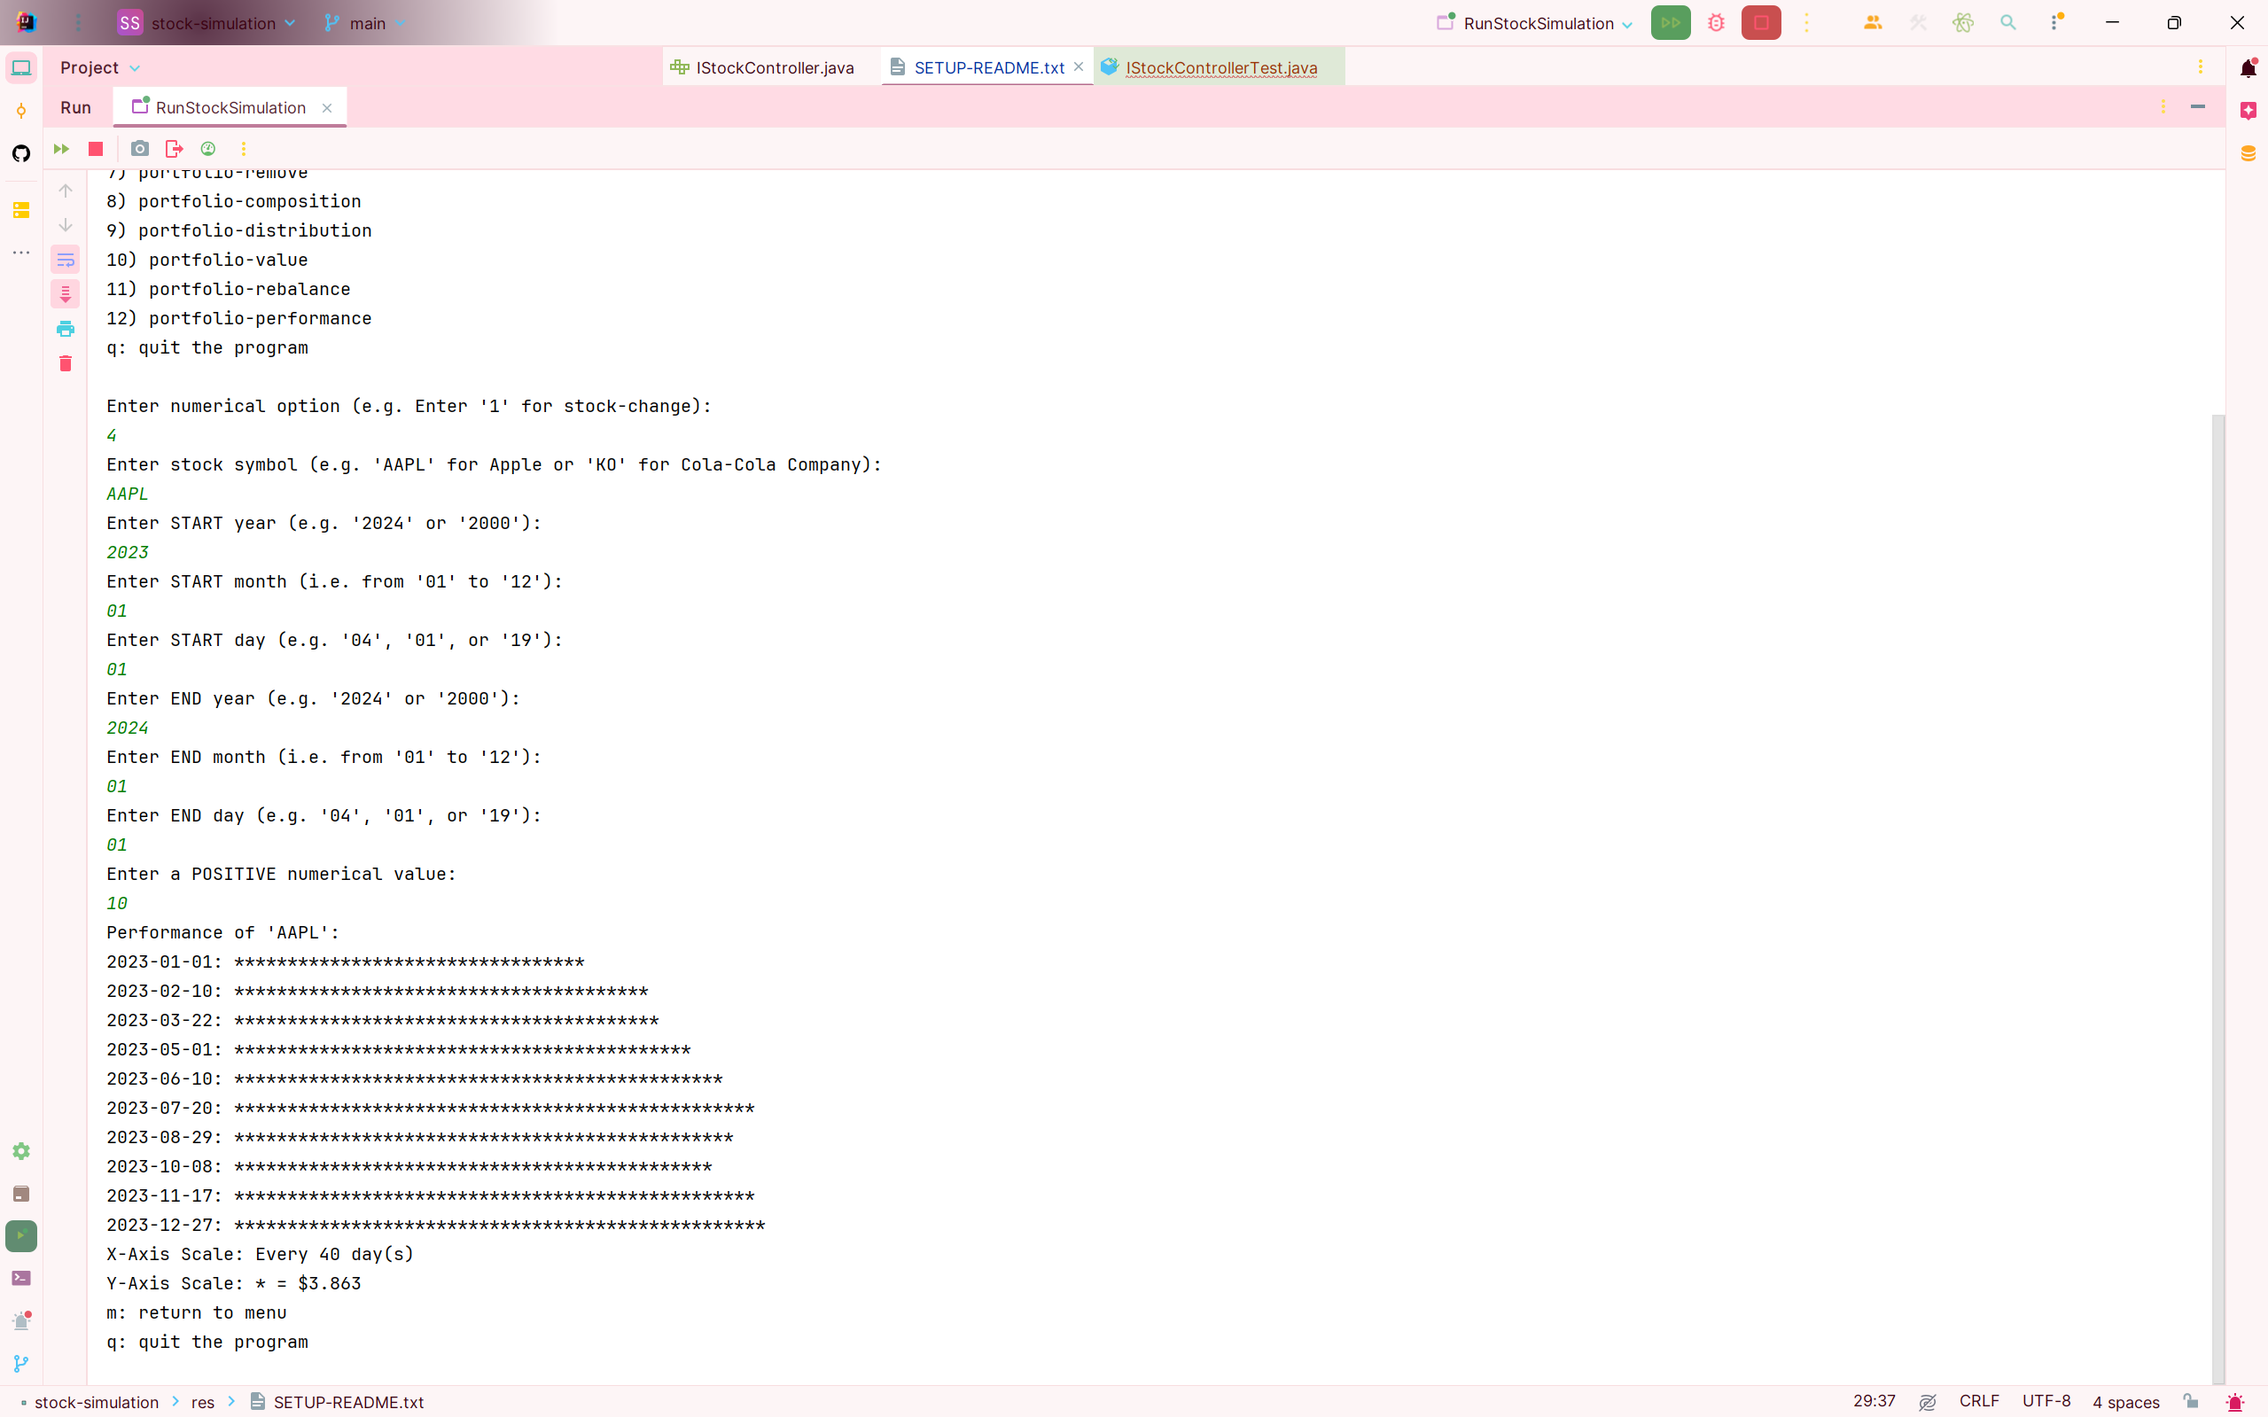
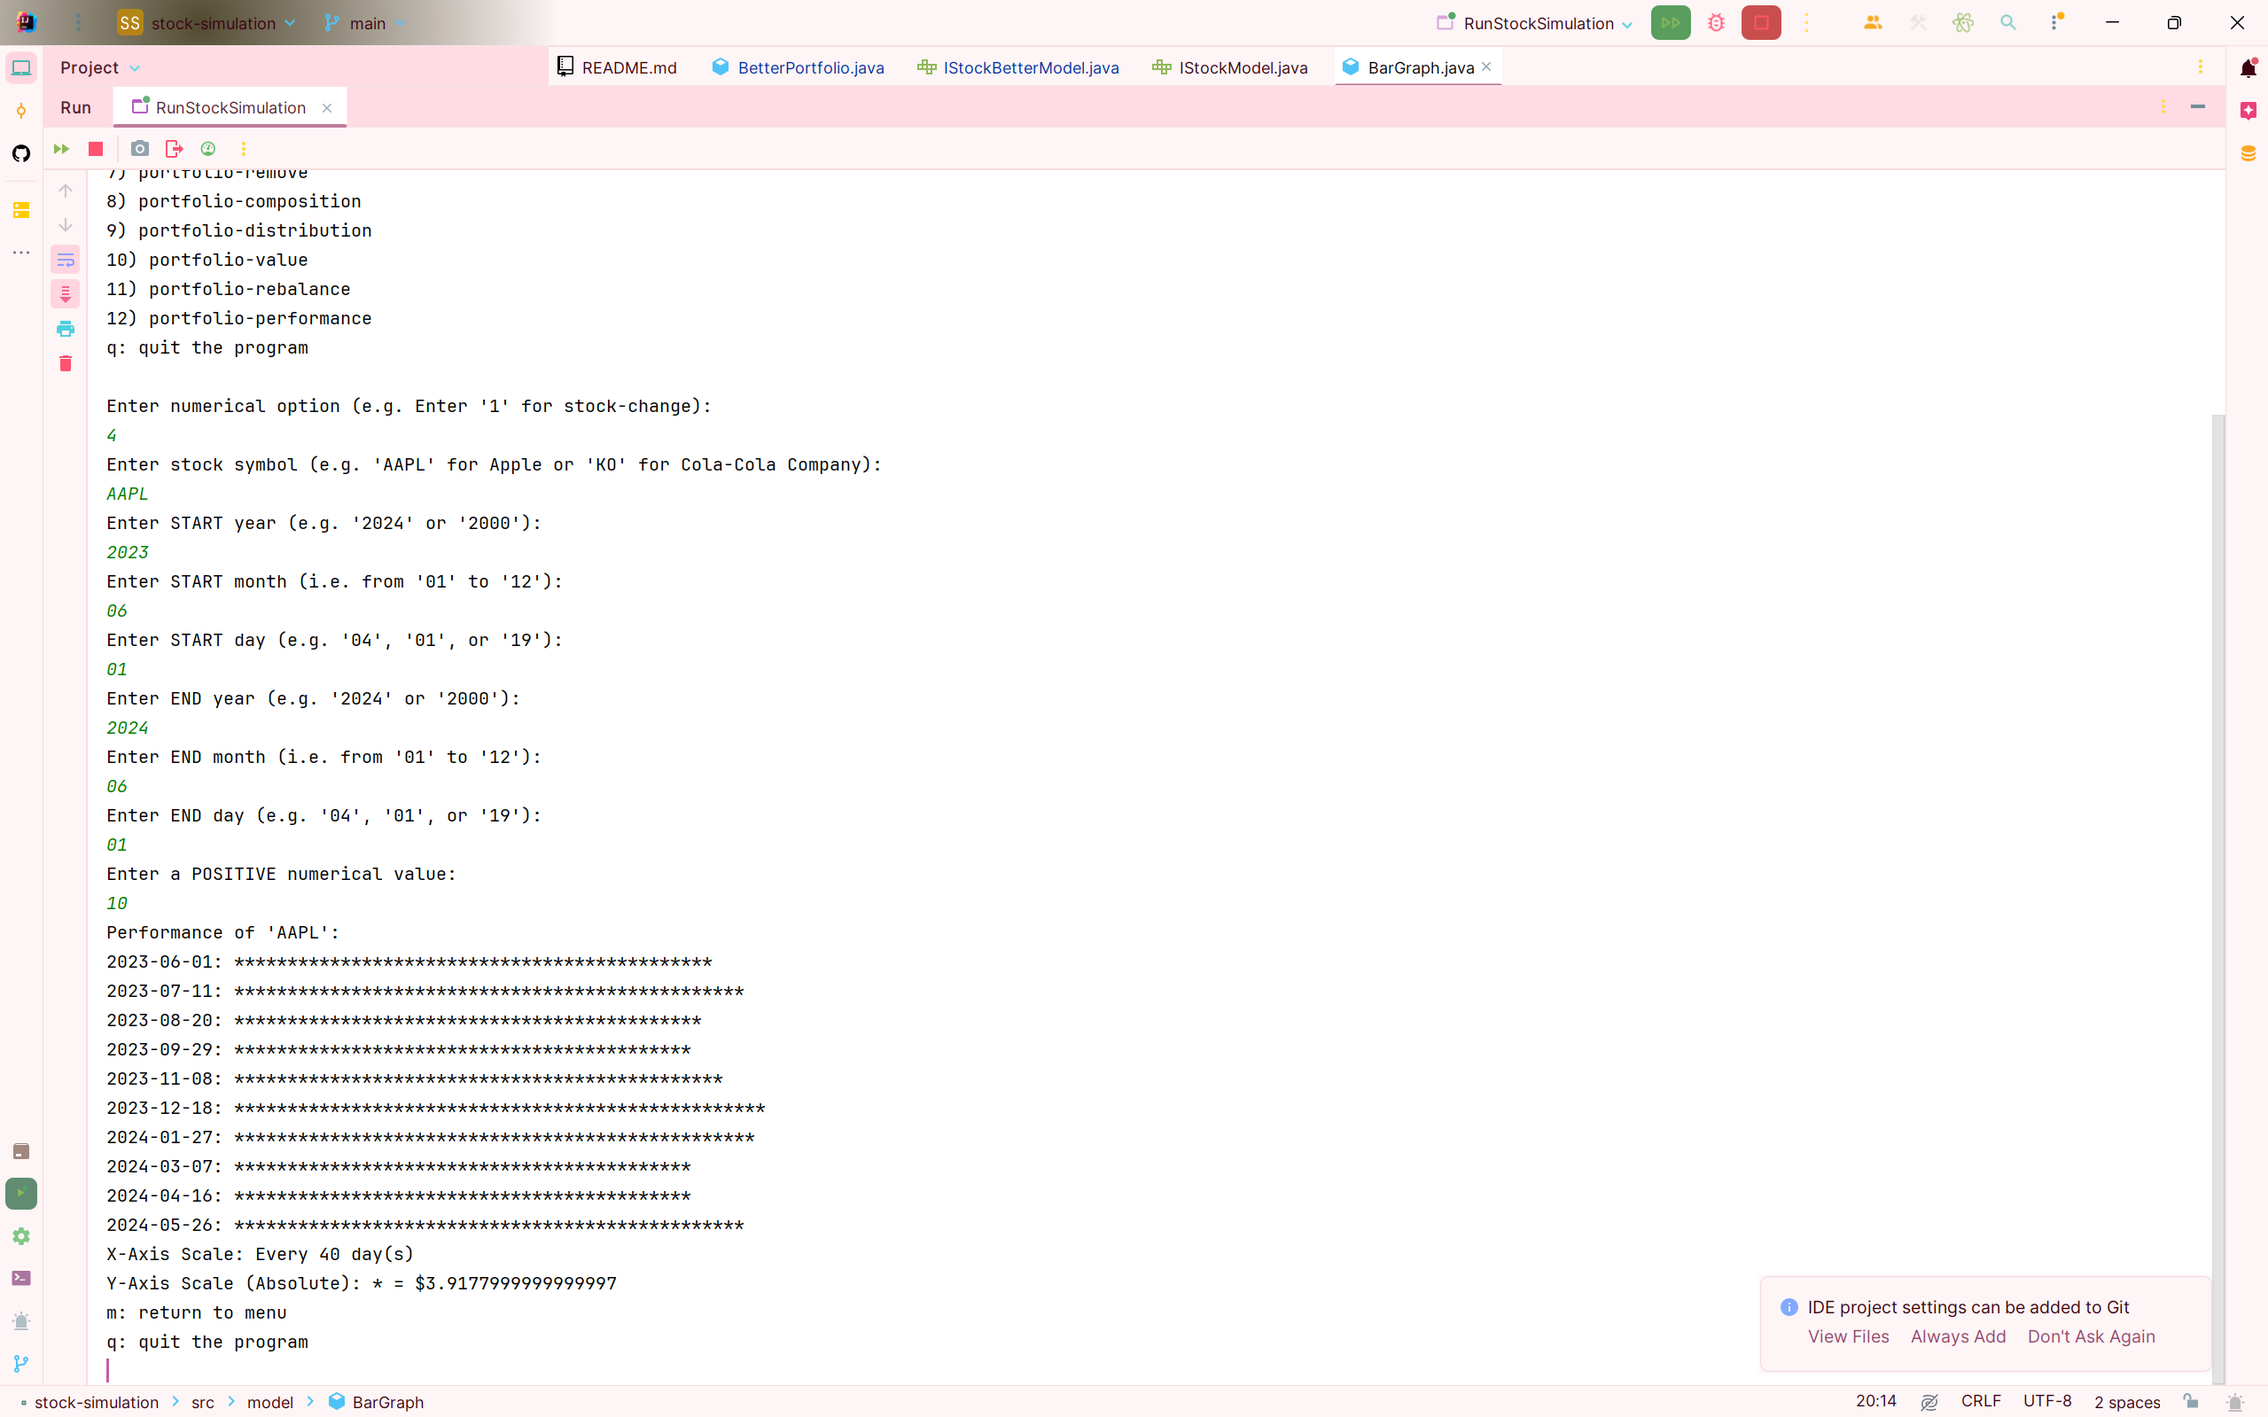
modified BarGraph and bar-graph.png.

diff --git a/test/IStockModelTest.java b/test/IStockModelTest.java
@@ -99,7 +99,7 @@ public class IStockModelTest {
   public void testAddStockToBetterPortfolio() {
     clear("portfolios");
     betterModel.createPortfolio("TechStocks");
-    betterModel.addStockToPortfolio("TechStocks", "AAPL", 10,
+    betterModel.addStockToPortfolioFile("TechStocks", "AAPL", 10,
             LocalDate.of(2023, 6, 1));
     double portfolioValue = betterModel.portfolioValue("TechStocks",
             LocalDate.of(2023, 6, 2));
@@ -114,9 +114,9 @@ public class IStockModelTest {
             LocalDate.of(2023, 6, 1));
     assertEquals(1800.9, portfolioValue, 0.001);
     // add multiple stocks so different stocks are in portfolio on different dates
-    betterModel.addStockToPortfolio("TechStocks", "GOOG", 15,
+    betterModel.addStockToPortfolioFile("TechStocks", "GOOG", 15,
             LocalDate.of(2022, 6, 1));
-    betterModel.addStockToPortfolio("TechStocks", "GOOG", 15,
+    betterModel.addStockToPortfolioFile("TechStocks", "GOOG", 15,
             LocalDate.of(2021, 2, 1));
     portfolioValue = betterModel.portfolioValue("TechStocks",
             LocalDate.of(2022, 6, 1));
@@ -136,14 +136,14 @@ public class IStockModelTest {
   public void testRemoveStockFromBetterPortfolio() {
     clear("portfolios");
     betterModel.createPortfolio("TechStocks");
-    betterModel.addStockToPortfolio("TechStocks", "AAPL", 10,
+    betterModel.addStockToPortfolioFile("TechStocks", "AAPL", 10,
             LocalDate.of(2023, 6, 1));
-    betterModel.removeStockFromPortfolio("TechStocks", "AAPL", 5,
+    betterModel.removeStockFromPortfolioFile("TechStocks", "AAPL", 5,
             LocalDate.of(2023, 7, 2));
     double portfolioValue = betterModel.portfolioValue("TechStocks",
             LocalDate.of(2023, 6, 1));
     assertEquals(900.45, portfolioValue, 0.001);
-    betterModel.removeStockFromPortfolio("TechStocks", "AAPL", 5,
+    betterModel.removeStockFromPortfolioFile("TechStocks", "AAPL", 5,
             LocalDate.of(2023, 6, 3));
     portfolioValue = betterModel.portfolioValue("TechStocks",
             LocalDate.of(2023, 6, 3));
@@ -345,9 +345,9 @@ public class IStockModelTest {
   public void testPortfolioValue() {
     clear("portfolios");
     betterModel.createPortfolio("TechStocks");
-    betterModel.addStockToPortfolio("TechStocks", "AAPL", 10,
+    betterModel.addStockToPortfolioFile("TechStocks", "AAPL", 10,
             LocalDate.of(2023, 6, 1));
-    betterModel.addStockToPortfolio("TechStocks", "GOOG", 5,
+    betterModel.addStockToPortfolioFile("TechStocks", "GOOG", 5,
             LocalDate.of(2023, 6, 1));
     double portfolioValue = betterModel.portfolioValue("TechStocks",
             LocalDate.of(2023, 6, 1));
@@ -396,7 +396,7 @@ public class IStockModelTest {
   public void testAddPortfolioInvalidDate() {
     clear("portfolios");
     betterModel.createPortfolio("TechStocks");
-    betterModel.addStockToPortfolio("TechStocks", "AAPL", 10,
+    betterModel.addStockToPortfolioFile("TechStocks", "AAPL", 10,
             LocalDate.of(2023, 32, 1));
   }
 
@@ -407,7 +407,7 @@ public class IStockModelTest {
   public void testRemovePortfolioInvalidDate() {
     clear("portfolios");
     betterModel.createPortfolio("TechStocks");
-    betterModel.removeStockFromPortfolio("TechStocks", "AAPL", 10,
+    betterModel.removeStockFromPortfolioFile("TechStocks", "AAPL", 10,
             LocalDate.of(2023, 32, 1));
   }
 
@@ -419,13 +419,13 @@ public class IStockModelTest {
   public void testRemovePortfolioRemoveTooMuch() {
     clear("portfolios");
     betterModel.createPortfolio("TechStocks");
-    betterModel.addStockToPortfolio("TechStocks", "AAPL", 10,
+    betterModel.addStockToPortfolioFile("TechStocks", "AAPL", 10,
             LocalDate.of(2023, 11, 1));
-    betterModel.addStockToPortfolio("TechStocks", "GOOG", 1,
+    betterModel.addStockToPortfolioFile("TechStocks", "GOOG", 1,
             LocalDate.of(2023, 11, 1));
     assertEquals(2045.72, betterModel.portfolioValue("TechStocks",
             LocalDate.of(2023, 12, 1)), 0.01);
-    betterModel.removeStockFromPortfolio("TechStocks", "AAPL", 1000,
+    betterModel.removeStockFromPortfolioFile("TechStocks", "AAPL", 1000,
             LocalDate.of(2023, 12, 1));
     assertEquals(133.32, betterModel.portfolioValue("TechStocks",
             LocalDate.of(2023, 12, 2)), 0.01);
@@ -438,7 +438,7 @@ public class IStockModelTest {
   public void testAddPortfolioInvalidTicker() {
     clear("portfolios");
     betterModel.createPortfolio("TechStocks");
-    betterModel.addStockToPortfolio("TechStocks", "AKPL", 10,
+    betterModel.addStockToPortfolioFile("TechStocks", "AKPL", 10,
             LocalDate.of(2023, 32, 1));
   }
 
@@ -449,7 +449,7 @@ public class IStockModelTest {
   public void testPortfolioComposition() {
     clear("portfolios");
     betterModel.createPortfolio("TechStocks");
-    betterModel.addStockToPortfolio("TechStocks", "AAPL", 10,
+    betterModel.addStockToPortfolioFile("TechStocks", "AAPL", 10,
             LocalDate.of(2023, 6, 1));
     BarGraph composition = betterModel.portfolioComposition("TechStocks",
             LocalDate.of(2023, 6, 1));
@@ -468,7 +468,7 @@ public class IStockModelTest {
   @Test
   public void testPortfolioDistribution() {
     betterModel.createPortfolio("TechStocks");
-    betterModel.addStockToPortfolio("TechStocks", "AAPL", 10,
+    betterModel.addStockToPortfolioFile("TechStocks", "AAPL", 10,
             LocalDate.of(2023, 6, 1));
     BarGraph distribution =
         betterModel.portfolioDistribution("TechStocks",
@@ -483,7 +483,7 @@ public class IStockModelTest {
   @Test
   public void testPortfolioPerformance() {
     betterModel.createPortfolio("TechStocks");
-    betterModel.addStockToPortfolio("TechStocks", "AAPL", 10,
+    betterModel.addStockToPortfolioFile("TechStocks", "AAPL", 10,
             LocalDate.of(2023, 6, 1));
     BarGraph performance =
         betterModel.portfolioPerformance(
@@ -500,7 +500,7 @@ public class IStockModelTest {
   @Test
   public void testPortfolioRebalance() {
     betterModel.createPortfolio("TechStocks");
-    betterModel.addStockToPortfolio("TechStocks", "AAPL", 10,
+    betterModel.addStockToPortfolioFile("TechStocks", "AAPL", 10,
             LocalDate.of(2023, 6, 1));
     betterModel.portfolioRebalance("TechStocks", List.of(50, 50),
             LocalDate.of(2023, 6, 1));
@@ -517,11 +517,11 @@ public class IStockModelTest {
   @Test
   public void testIsValidSplit() {
     betterModel.createPortfolio("TechStocks");
-    betterModel.addStockToPortfolio("TechStocks", "AAPL",
+    betterModel.addStockToPortfolioFile("TechStocks", "AAPL",
             10, LocalDate.of(2023, 6, 1));
     boolean isValid = betterModel.isValidSplit("TechStocks", List.of("AAPL", "GOOG"));
     assertFalse(isValid);
-    betterModel.addStockToPortfolio("TechStocks", "GOOG", 10,
+    betterModel.addStockToPortfolioFile("TechStocks", "GOOG", 10,
             LocalDate.of(2023, 6, 1));
     isValid = betterModel.isValidSplit("TechStocks", List.of("AAPL"));
     assertFalse(isValid);

diff --git a/test/IStockControllerTest.java b/test/IStockControllerTest.java
@@ -100,7 +100,7 @@ public class IStockControllerTest {
 
     betterController.control();
     // Verify the stock was added to the portfolio.
-    betterMockModel.addStockToPortfolio("TechStocks", "AAPL", 10,
+    betterMockModel.addStockToPortfolioFile("TechStocks", "AAPL", 10,
             LocalDate.of(2023, 6, 1));
     assertTrue(betterMockView.getMessages().contains("On 2023-06-01: Added 'AAPL' " +
             "(quantity: 10) to portfolio 'TechStocks'."));
@@ -118,10 +118,10 @@ public class IStockControllerTest {
     betterController.control();
 
     // Verify the stock was added to the portfolio
-    betterMockModel.addStockToPortfolio("TechStocks", "AAPL", 10,
+    betterMockModel.addStockToPortfolioFile("TechStocks", "AAPL", 10,
             LocalDate.of(2023, 6, 1));
     // Verify the stock was removed from the portfolio
-    betterMockModel.removeStockFromPortfolio("TechStocks", "AAPL", 5,
+    betterMockModel.removeStockFromPortfolioFile("TechStocks", "AAPL", 5,
             LocalDate.of(2023, 6, 1));
     assertTrue(betterMockView.getMessages().contains("On 2023-06-01: Removed 'AAPL' " +
             "(quantity: 5) from portfolio 'TechStocks'."));
@@ -139,9 +139,9 @@ public class IStockControllerTest {
     betterController.control();
 
     // Verify the stock was added to the portfolio
-    betterMockModel.addStockToPortfolio("TechStocks", "AAPL", 10,
+    betterMockModel.addStockToPortfolioFile("TechStocks", "AAPL", 10,
             LocalDate.of(2023, 6, 1));
-    betterMockModel.removeStockFromPortfolio("TechStocks", "SWK", 5,
+    betterMockModel.removeStockFromPortfolioFile("TechStocks", "SWK", 5,
             LocalDate.of(2023, 6, 1));
     assertTrue(betterMockView.getMessages().contains("On 2023-06-01: Removed 'SWK' " +
             "(quantity: 5) from portfolio 'TechStocks'."));
@@ -424,7 +424,7 @@ public class IStockControllerTest {
     betterController.control();
 
     // Verify the stock was added to the portfolio
-    betterMockModel.addStockToPortfolio("TechStocks", "AAPL", 10,
+    betterMockModel.addStockToPortfolioFile("TechStocks", "AAPL", 10,
             LocalDate.of(2023, 6, 1));
     assertTrue(betterMockView.getMessages().contains("On 2023-06-01: Added 'AAPL' " +
             "(quantity: 10) to portfolio 'TechStocks'."));
@@ -454,10 +454,10 @@ public class IStockControllerTest {
     betterController.control();
 
     // Verify the stock was added to the portfolio
-    betterMockModel.addStockToPortfolio("TechStocks", "AAPL", 10,
+    betterMockModel.addStockToPortfolioFile("TechStocks", "AAPL", 10,
             LocalDate.of(2023, 6, 1));
     // Verify the stock was removed from the portfolio
-    betterMockModel.removeStockFromPortfolio("TechStocks", "AAPL", 5,
+    betterMockModel.removeStockFromPortfolioFile("TechStocks", "AAPL", 5,
             LocalDate.of(2023, 6, 1));
     assertTrue(betterMockView.getMessages().contains("On 2023-06-01: Removed 'AAPL' " +
             "(quantity: 5) from portfolio 'TechStocks'."));

diff --git a/src/controller/TextualStockBetterController.java b/src/controller/TextualStockBetterController.java
@@ -139,7 +139,7 @@ public class TextualStockBetterController extends TextualStockController impleme
             validateDate(sc, "year", 3) + "-"
                 + validateDate(sc, "month", 3) + "-"
                 + validateDate(sc, "day", 3));
-        model.addStockToPortfolio(name, symbol, amount, date);
+        model.addStockToPortfolioFile(name, symbol, amount, date);
         view.displayMessage("On " + date + ": Added '" + symbol + "' (quantity: " + amount + ") to "
             + "portfolio '" + name + "'.");
         view.displayMessage(returnToMenu());
@@ -152,7 +152,7 @@ public class TextualStockBetterController extends TextualStockController impleme
             validateDate(sc, "year", 3) + "-"
                 + validateDate(sc, "month", 3) + "-"
                 + validateDate(sc, "day", 3));
-        model.removeStockFromPortfolio(name, symbol, amount, date);
+        model.removeStockFromPortfolioFile(name, symbol, amount, date);
         view.displayMessage("On " + date + ": Removed '" + symbol + "' (quantity: " + amount + ") "
             + "from portfolio '" + name + "'.");
         view.displayMessage(returnToMenu());

diff --git a/src/model/StockBetterModel.java b/src/model/StockBetterModel.java
@@ -107,7 +107,7 @@ public class StockBetterModel extends StockModel implements IStockBetterModel {
    * @param quantity The quantity of stocks purchased.
    * @param date     The date of the purchase of the stock.
    */
-  public void addStockToPortfolio(String name, String symbol, int quantity, LocalDate date) {
+  public void addStockToPortfolioFile(String name, String symbol, int quantity, LocalDate date) {
     portfolios.get(name).addStockToFile(name, symbol, quantity, date);
   }
 
@@ -119,7 +119,7 @@ public class StockBetterModel extends StockModel implements IStockBetterModel {
    * @param quantity The quantity of stock to remove.
    * @param date     The date of the removal of the stock.
    */
-  public void removeStockFromPortfolio(String name, String symbol, int quantity, LocalDate date) {
+  public void removeStockFromPortfolioFile(String name, String symbol, int quantity, LocalDate date) {
     portfolios.get(name).removeStockFromFile(name, symbol, quantity, date);
   }
 

diff --git a/src/model/IStockBetterModel.java b/src/model/IStockBetterModel.java
@@ -36,7 +36,7 @@ public interface IStockBetterModel extends IStockModel {
    * @param quantity The quantity of stocks purchased.
    * @param date     The date of the purchase of the stock.
    */
-  void addStockToPortfolio(String name, String symbol, int quantity, LocalDate date);
+  void addStockToPortfolioFile(String name, String symbol, int quantity, LocalDate date);
 
   /**
    * Package-private. Remove a quantity of shares of a stock (termed as 'symbol') from a Portfolio.
@@ -46,7 +46,7 @@ public interface IStockBetterModel extends IStockModel {
    * @param quantity The quantity of stock to remove.
    * @param date     The date of the removal of the stock.
    */
-  void removeStockFromPortfolio(String name, String symbol, int quantity, LocalDate date);
+  void removeStockFromPortfolioFile(String name, String symbol, int quantity, LocalDate date);
 
   /**
    * Package-private. Calculate the value of a portfolio based on the stocks' value on a given date

diff --git a/test/BetterMockStockModel.java b/test/BetterMockStockModel.java
@@ -123,7 +123,7 @@ public class BetterMockStockModel implements IStockBetterModel {
    * @param date     The date of the purchase of the stock.
    */
   @Override
-  public void addStockToPortfolio(String name, String symbol, int quantity, LocalDate date) {
+  public void addStockToPortfolioFile(String name, String symbol, int quantity, LocalDate date) {
     portfolios.get(name).addStockToFile(name, symbol, quantity, date);
   }
 
@@ -136,7 +136,7 @@ public class BetterMockStockModel implements IStockBetterModel {
    * @param date     The date of the removal of the stock.
    */
   @Override
-  public void removeStockFromPortfolio(String name, String symbol, int quantity, LocalDate date) {
+  public void removeStockFromPortfolioFile(String name, String symbol, int quantity, LocalDate date) {
     portfolios.get(name).removeStockFromFile(name, symbol, quantity, date);
   }
 

diff --git a/src/model/BetterPortfolio.java b/src/model/BetterPortfolio.java
@@ -55,7 +55,8 @@ public class BetterPortfolio extends Portfolio {
       String symbol = entry.getKey();
       StockPurchase stockPurchase = entry.getValue();
       // Only calculate the prices of the stocks purchased before the provided date.
-      if (stockPurchase.getPurchaseDate().isBefore(date) || stockPurchase.getPurchaseDate().isEqual(date)) {
+      if (stockPurchase.getPurchaseDate().isBefore(date) ||
+          stockPurchase.getPurchaseDate().isEqual(date)) {
         // Find the price of a stock on the given date and multiply it by the quantity of stock
         // purchased.
         double price = stockDatabase.getPriceOn(symbol, String.valueOf(date), "");
